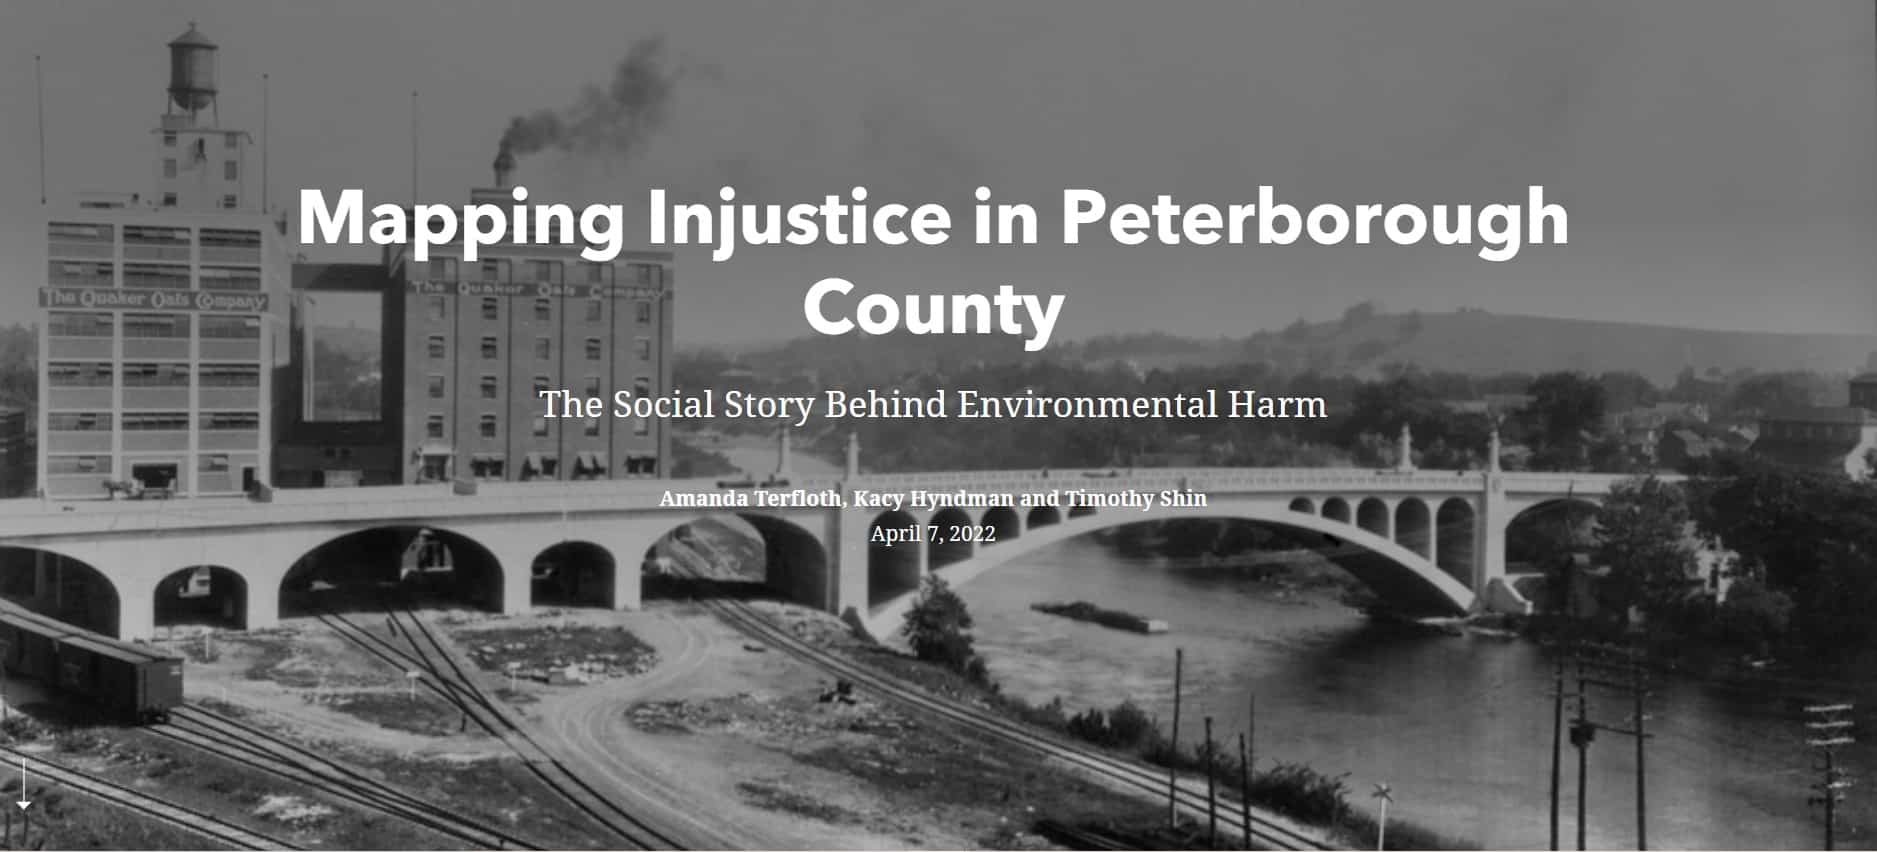
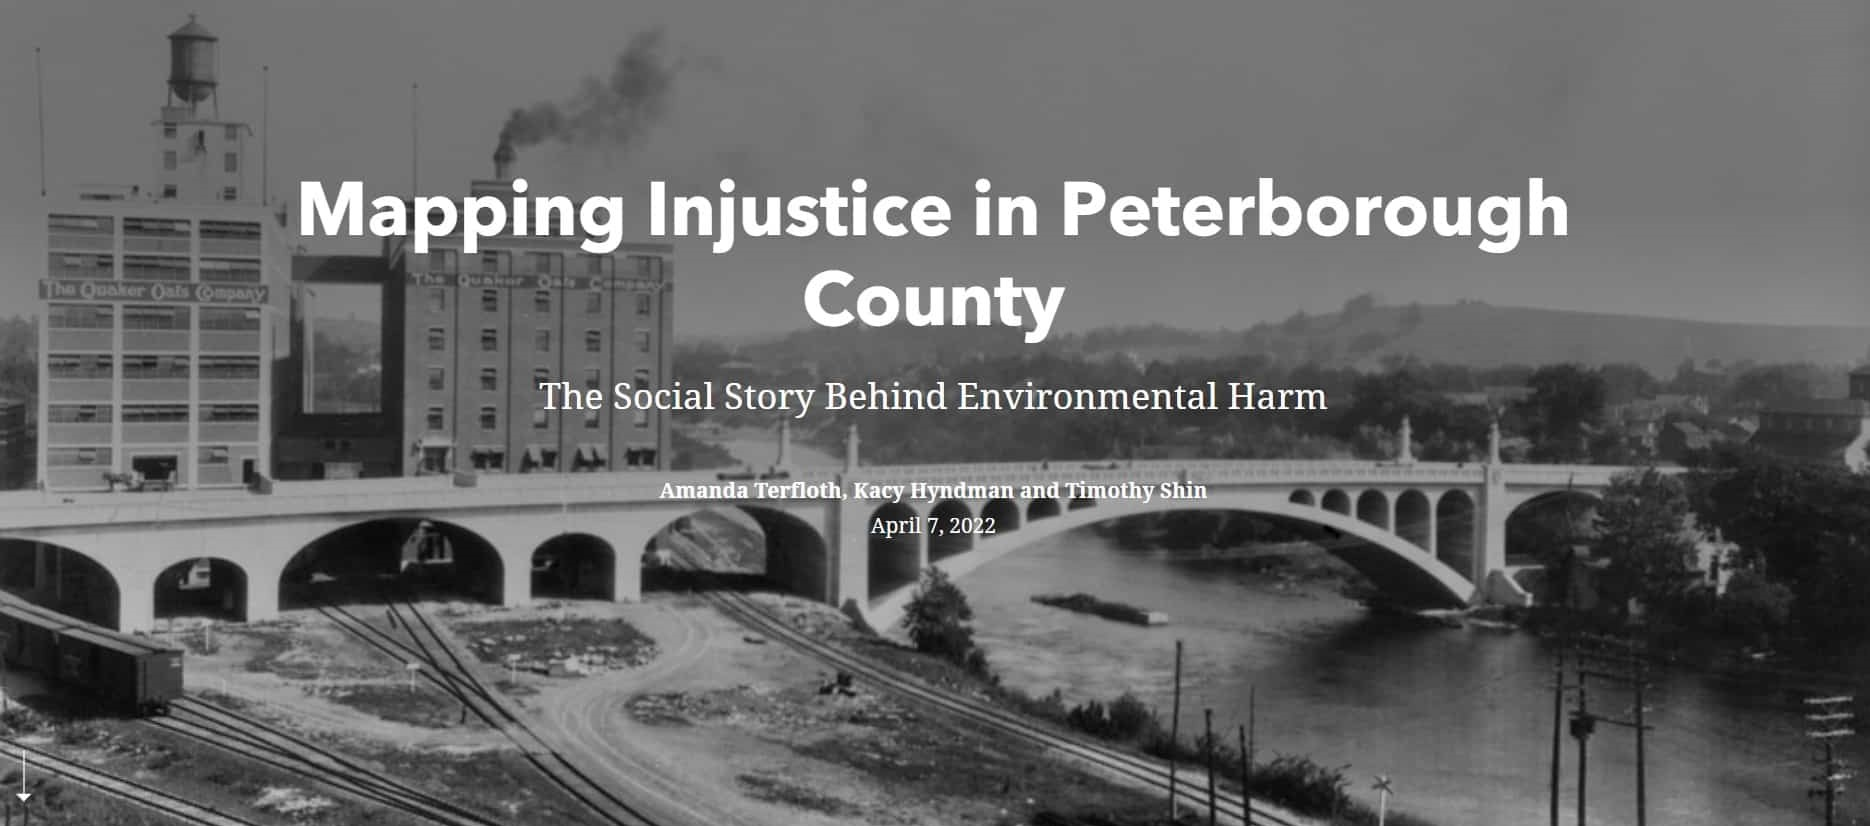
AT

diff --git a/css/tooplate-style.css b/css/tooplate-style.css
@@ -51,7 +51,7 @@ footer a:link, footer a:visited {
   display: block;
   margin-left: auto;
   margin-right: auto;
-  max-width: 60%;
+  max-width: 50%;
   width: 100%;
 }
 
